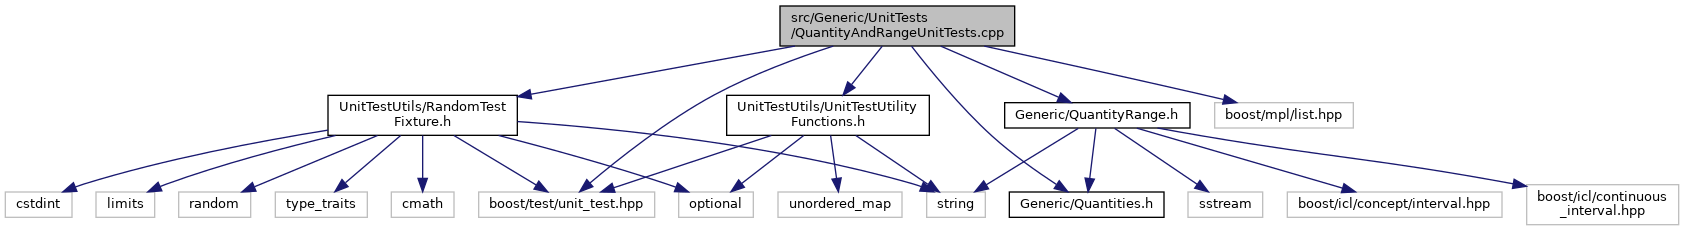
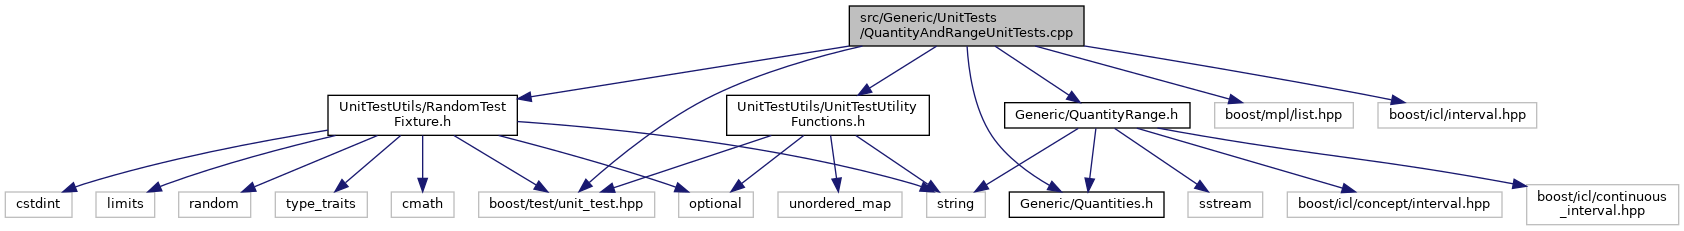
deploy: 22bf30e9b1619e99c758e5ff89ffd0feed20bd88

diff --git a/QuantityAndRangeUnitTests_8cpp.html b/QuantityAndRangeUnitTests_8cpp.html
@@ -96,18 +96,20 @@ $(document).ready(function(){initNavTree('QuantityAndRangeUnitTests_8cpp.html','
 <code>#include &lt;<a class="el" href="Quantities_8h_source.html">Generic/Quantities.h</a>&gt;</code><br />
 <code>#include &lt;<a class="el" href="QuantityRange_8h_source.html">Generic/QuantityRange.h</a>&gt;</code><br />
 <code>#include &lt;boost/mpl/list.hpp&gt;</code><br />
+<code>#include &lt;boost/icl/interval.hpp&gt;</code><br />
 </div><div class="textblock"><div class="dynheader">
 Include dependency graph for QuantityAndRangeUnitTests.cpp:</div>
 <div class="dyncontent">
 <div class="center"><img src="QuantityAndRangeUnitTests_8cpp__incl.png" border="0" usemap="#src_2Generic_2UnitTests_2QuantityAndRangeUnitTests_8cpp" alt=""/></div>
 <map name="src_2Generic_2UnitTests_2QuantityAndRangeUnitTests_8cpp" id="src_2Generic_2UnitTests_2QuantityAndRangeUnitTests_8cpp">
-<area shape="rect" title=" " alt="" coords="780,5,1015,47"/>
+<area shape="rect" title=" " alt="" coords="849,5,1084,47"/>
 <area shape="rect" title=" " alt="" coords="479,191,655,218"/>
 <area shape="rect" href="RandomTestFixture_8h.html" title=" " alt="" coords="328,95,517,136"/>
 <area shape="rect" href="UnitTestUtilityFunctions_8h.html" title=" " alt="" coords="727,95,929,136"/>
 <area shape="rect" href="Quantities_8h.html" title=" " alt="" coords="1009,191,1164,218"/>
 <area shape="rect" href="QuantityRange_8h.html" title=" " alt="" coords="1005,102,1190,129"/>
 <area shape="rect" title=" " alt="" coords="1215,102,1353,129"/>
+<area shape="rect" title=" " alt="" coords="1378,102,1537,129"/>
 <area shape="rect" title=" " alt="" coords="391,191,454,218"/>
 <area shape="rect" title=" " alt="" coords="5,191,72,218"/>
 <area shape="rect" title=" " alt="" coords="96,191,155,218"/>
